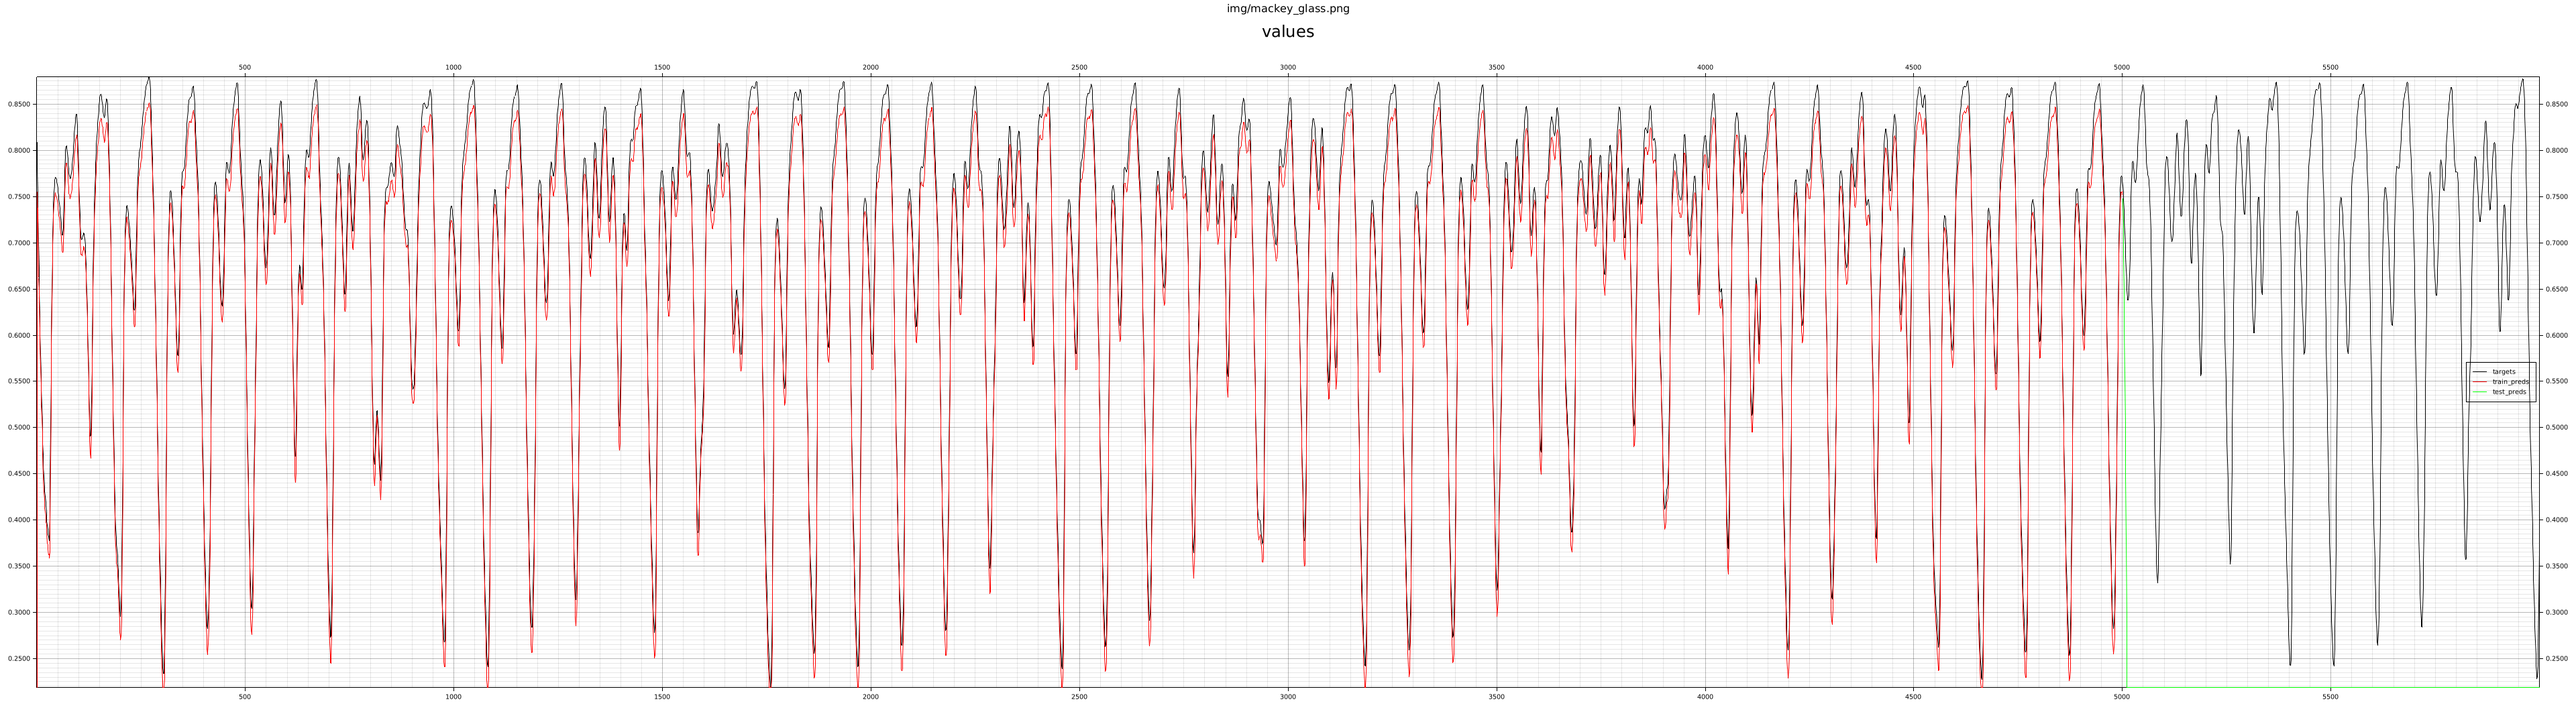
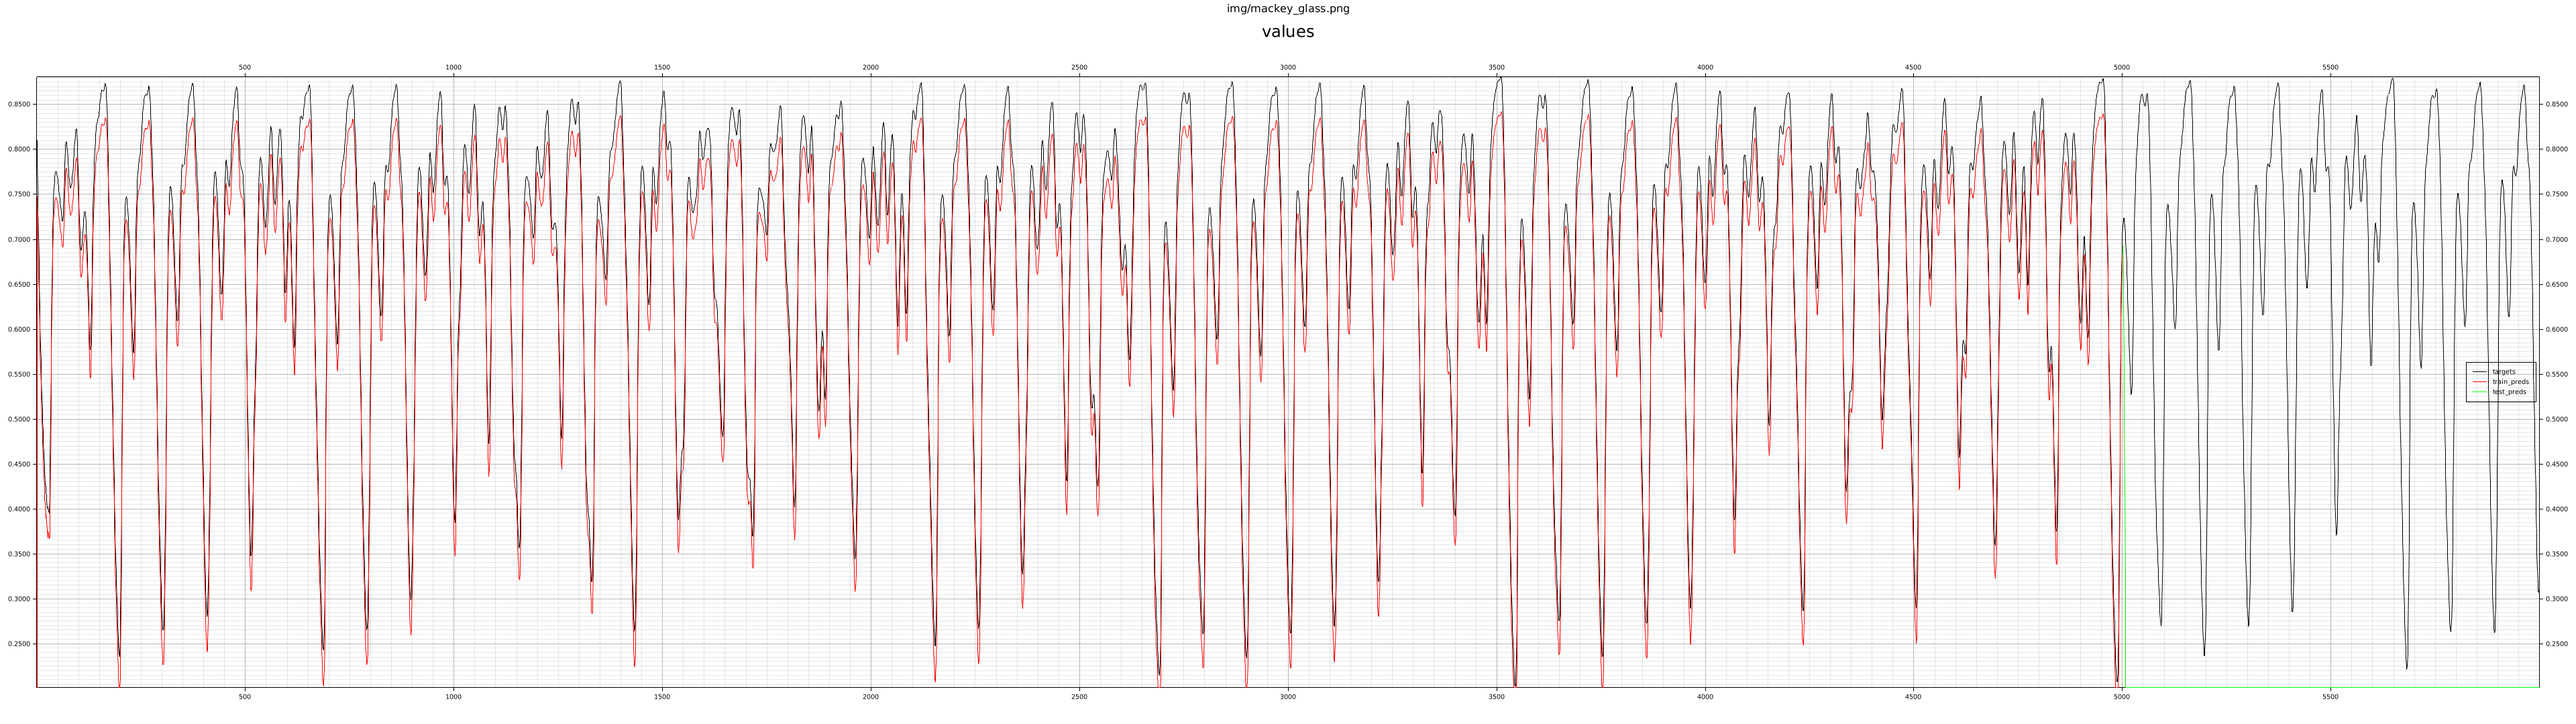
some bug fixes in state update equation but with similar performance

Changed region(s): [[0.0, 0.0917, 1.0, 0.9472]]

diff --git a/src/esn.rs b/src/esn.rs
@@ -109,7 +109,7 @@ impl ESN {
             Dim::from_usize(INPUT_DIM),
             |_, _| {
                 if rng.generate::<f64>() < params.input_sparsity {
-                    rng.generate::<f64>() * params.input_weight_scaling * 2.0 - 1.0
+                    (rng.generate::<f64>() * 2.0 - 1.0) * params.input_weight_scaling
                 } else {
                     0.0
                 }
@@ -246,20 +246,15 @@ impl ESN {
         input: &'a MatrixSlice<'a, f64, Const<1>, Const<INPUT_DIM>, Const<1>, Dynamic>,
         prev_pred: &Output,
     ) {
-        // propagate inputs
-        let mut input_state: StateMatrix =
-            (&self.input_weight_matrix * input * self.params.input_weight_scaling)
-                + (self.params.input_bias_scaling * &self.input_biases);
-        self.params.input_activation.activate(input_state.as_mut_slice());
-
         // perform node-to-node update
         let noise: StateMatrix = Matrix::from_fn_generic(
             Dim::from_usize(self.params.reservoir_size),
             Dim::from_usize(1),
             |_, _| (self.rng.generate::<f64>() * 2.0 - 1.0) * self.params.state_update_noise_frac,
         );
-        let mut state_delta = input_state
+        let mut state_delta = &self.input_weight_matrix * input
             + self.params.leaking_rate * (&self.reservoir_matrix * &self.state)
+            + &self.input_biases
             + (&self.feedback_matrix * prev_pred)
             + noise;
         self.params.reservoir_activation.activate(state_delta.as_mut_slice());

diff --git a/src/experiments/mackey_glass.rs b/src/experiments/mackey_glass.rs
@@ -1,4 +1,4 @@
-use std::collections::VecDeque;
+use std::{collections::VecDeque, time::Instant};
 
 use nalgebra::{Const, Dim, Dynamic, Matrix, VecStorage};
 use nanorand::{Rng, WyRand};
@@ -21,7 +21,7 @@ pub(crate) fn start() {
         input_sparsity: 0.1,
         input_activation: Activation::Identity,
         input_weight_scaling: 1.0,
-        input_bias_scaling: 0.2,
+        input_bias_scaling: 0.05,
 
         reservoir_size: 100,
         reservoir_fixed_in_degree_k: 2,
@@ -34,7 +34,7 @@ pub(crate) fn start() {
         washout_pct: 0.0,
         output_tanh: false,
         seed: Some(0),
-        state_update_noise_frac: 0.001,
+        state_update_noise_frac: 0.0,
         initial_state_value: values[0],
     };
 
@@ -49,7 +49,9 @@ pub(crate) fn start() {
         Dim::from_usize(1),
         values.iter().skip(1).take(train_len).cloned().collect::<Vec<f64>>(),
     );
+    let t0 = Instant::now();
     rc.train(&train_inputs, &train_targets);
+    info!("ESN training done in {}ms", t0.elapsed().as_millis());
 
     let mut plot_targets: Series = vec![];
     let mut train_predictions: Series = vec![];
@@ -85,7 +87,6 @@ pub(crate) fn start() {
 
         rc.update_state(&input, &predicted_out);
     }
-    info!("test_predictions: {:?}", test_predictions);
     info!("train_rmse: {}", train_rmse.sqrt());
 
     plot(

diff --git a/src/experiments/trades.rs b/src/experiments/trades.rs
@@ -46,7 +46,7 @@ pub(crate) fn start() {
         input_sparsity: 0.1,
         input_activation: Activation::Identity,
         input_weight_scaling: 1.0,
-        input_bias_scaling: 0.2,
+        input_bias_scaling: 0.04,
 
         reservoir_size: 500,
         reservoir_fixed_in_degree_k: 10,

diff --git a/src/experiments/sine.rs b/src/experiments/sine.rs
@@ -28,7 +28,7 @@ pub(crate) fn start() {
         input_sparsity: 0.1,
         input_activation: Activation::Identity,
         input_weight_scaling: 1.0,
-        input_bias_scaling: 0.2,
+        input_bias_scaling: 0.05,
 
         reservoir_size: 80,
         reservoir_fixed_in_degree_k: 3,
